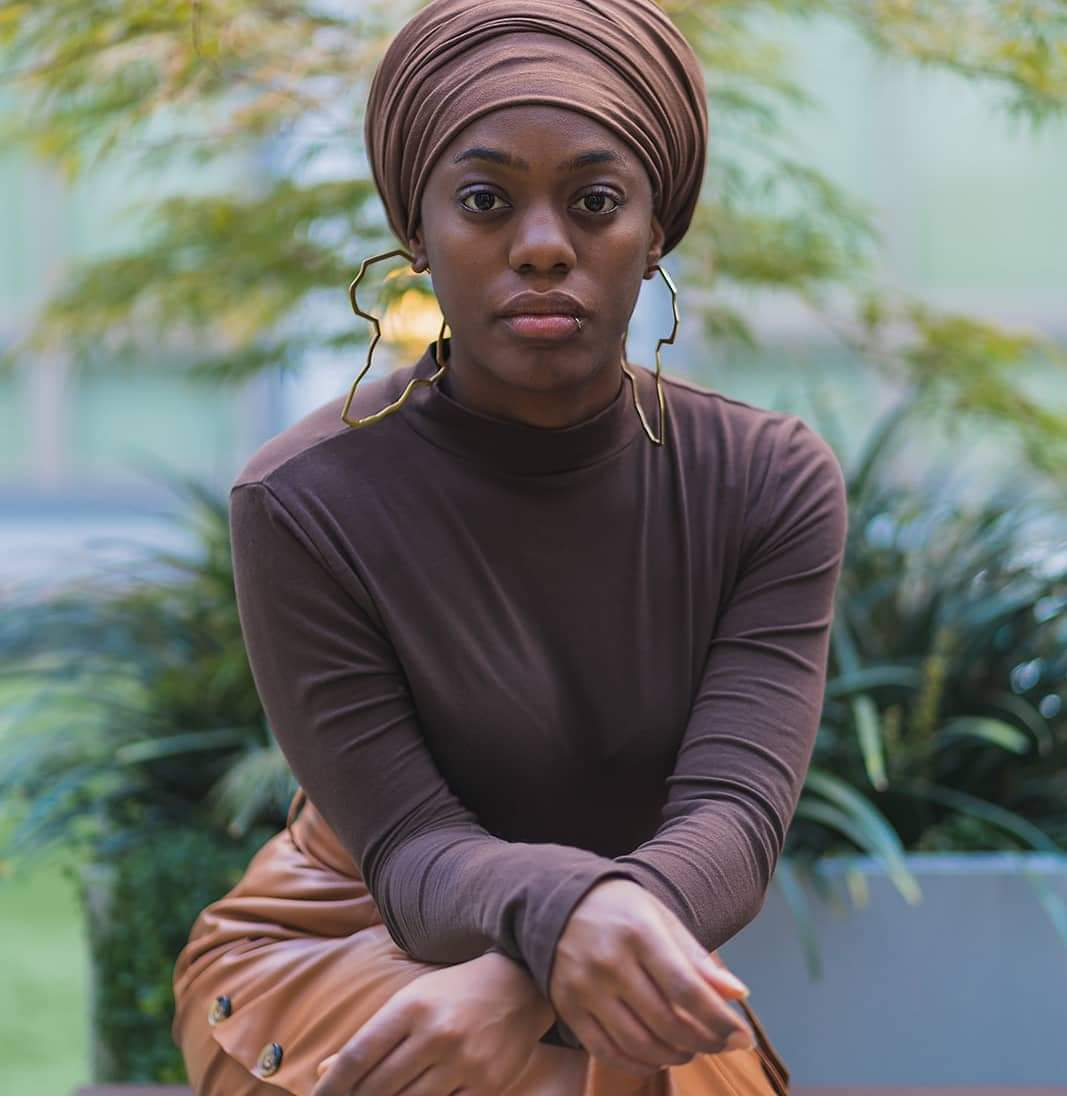
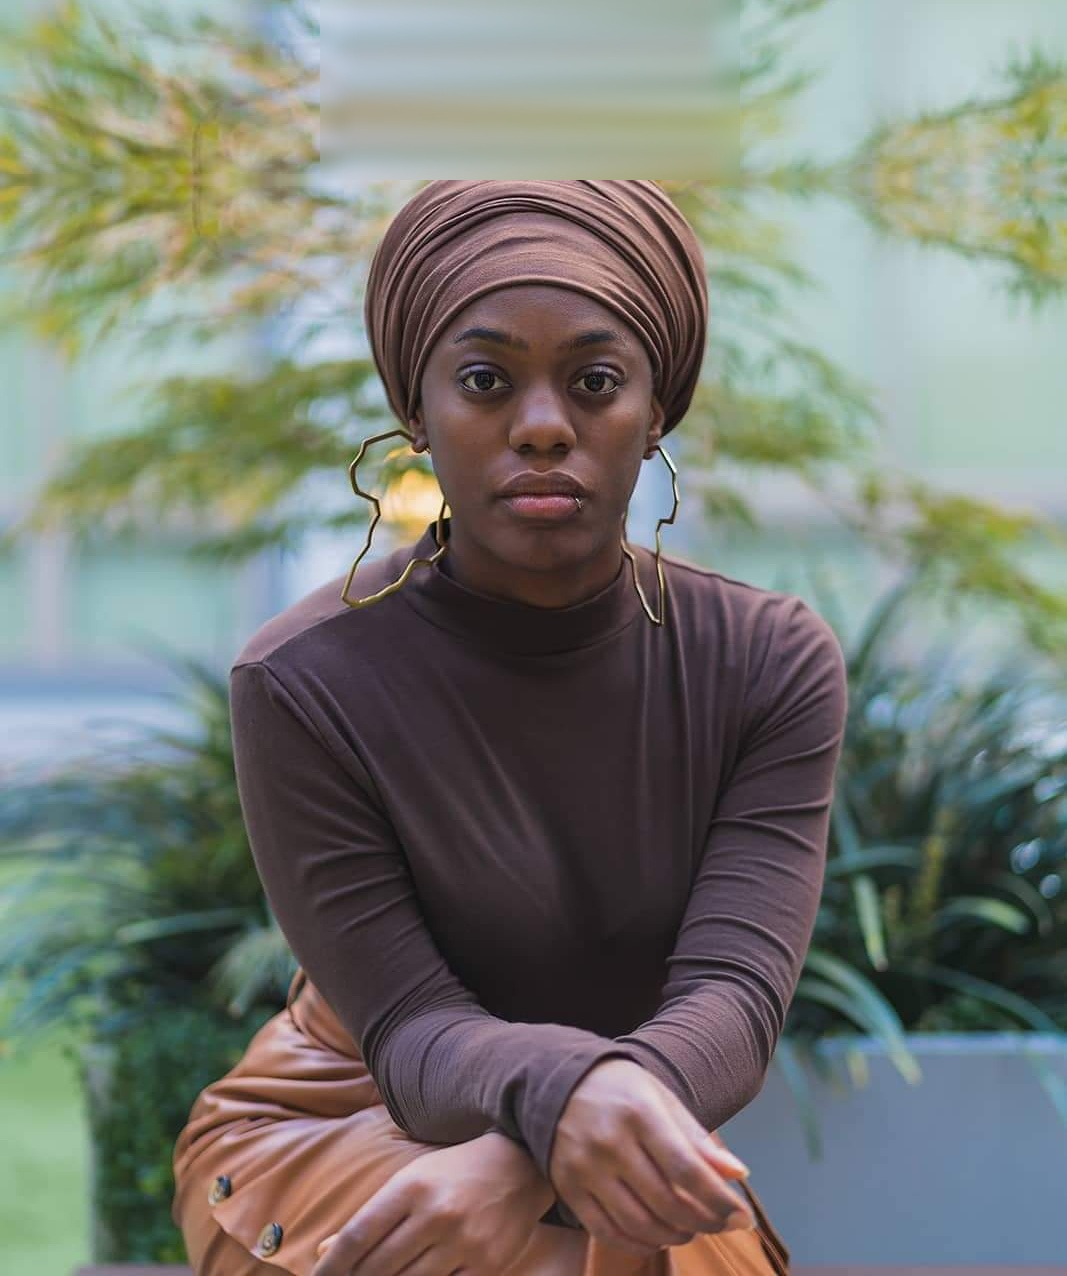
fix(portraits): expand headroom for Oghenekevwe Ajueyitsi, Thomas Uwhubetine, and BOT Chairman

diff --git a/app/globals.css b/app/globals.css
@@ -5986,7 +5986,7 @@ a {
 .leader-arch-frame img {
   object-fit: contain !important;
   object-position: center bottom !important;
-  padding: 6px 4px 0 !important;
+  padding: 24px 10px 0 !important;
 }
 
 /* Executive Committee Cards: contain officer portraits cleanly */
@@ -7740,7 +7740,8 @@ a {
 }
 
 .bot-spotlight-img {
-  object-fit: cover;
+  object-fit: cover !important;
+  object-position: top center !important;
 }
 
 .bot-spotlight-pill {
@@ -7840,10 +7841,11 @@ a {
   object-fit: cover !important;
   object-position: top center !important;
   transition: transform 0.4s ease;
+  transform-origin: center bottom;
 }
 
 .bot-card:hover .bot-card-img {
-  transform: scale(1.05);
+  transform: scale(1.04);
 }
 
 .bot-card-body {
@@ -8060,10 +8062,11 @@ a {
   object-fit: cover !important;
   object-position: top center !important;
   transition: transform 0.4s ease;
+  transform-origin: center bottom;
 }
 
 .upuaya-officer-card:hover .upuaya-card-img {
-  transform: scale(1.05);
+  transform: scale(1.04);
 }
 
 .upuaya-logo-img {

diff --git a/components/board-of-trustees-section.tsx b/components/board-of-trustees-section.tsx
@@ -234,7 +234,7 @@ export default function BoardOfTrusteesSection() {
                 fill
                 sizes="(max-width: 768px) 100vw, 320px"
                 className="bot-spotlight-img"
-                style={{ objectFit: "cover", objectPosition: "center 20%" }}
+                style={{ objectFit: "cover", objectPosition: "center top" }}
                 priority
               />
               <div className="bot-spotlight-pill">
